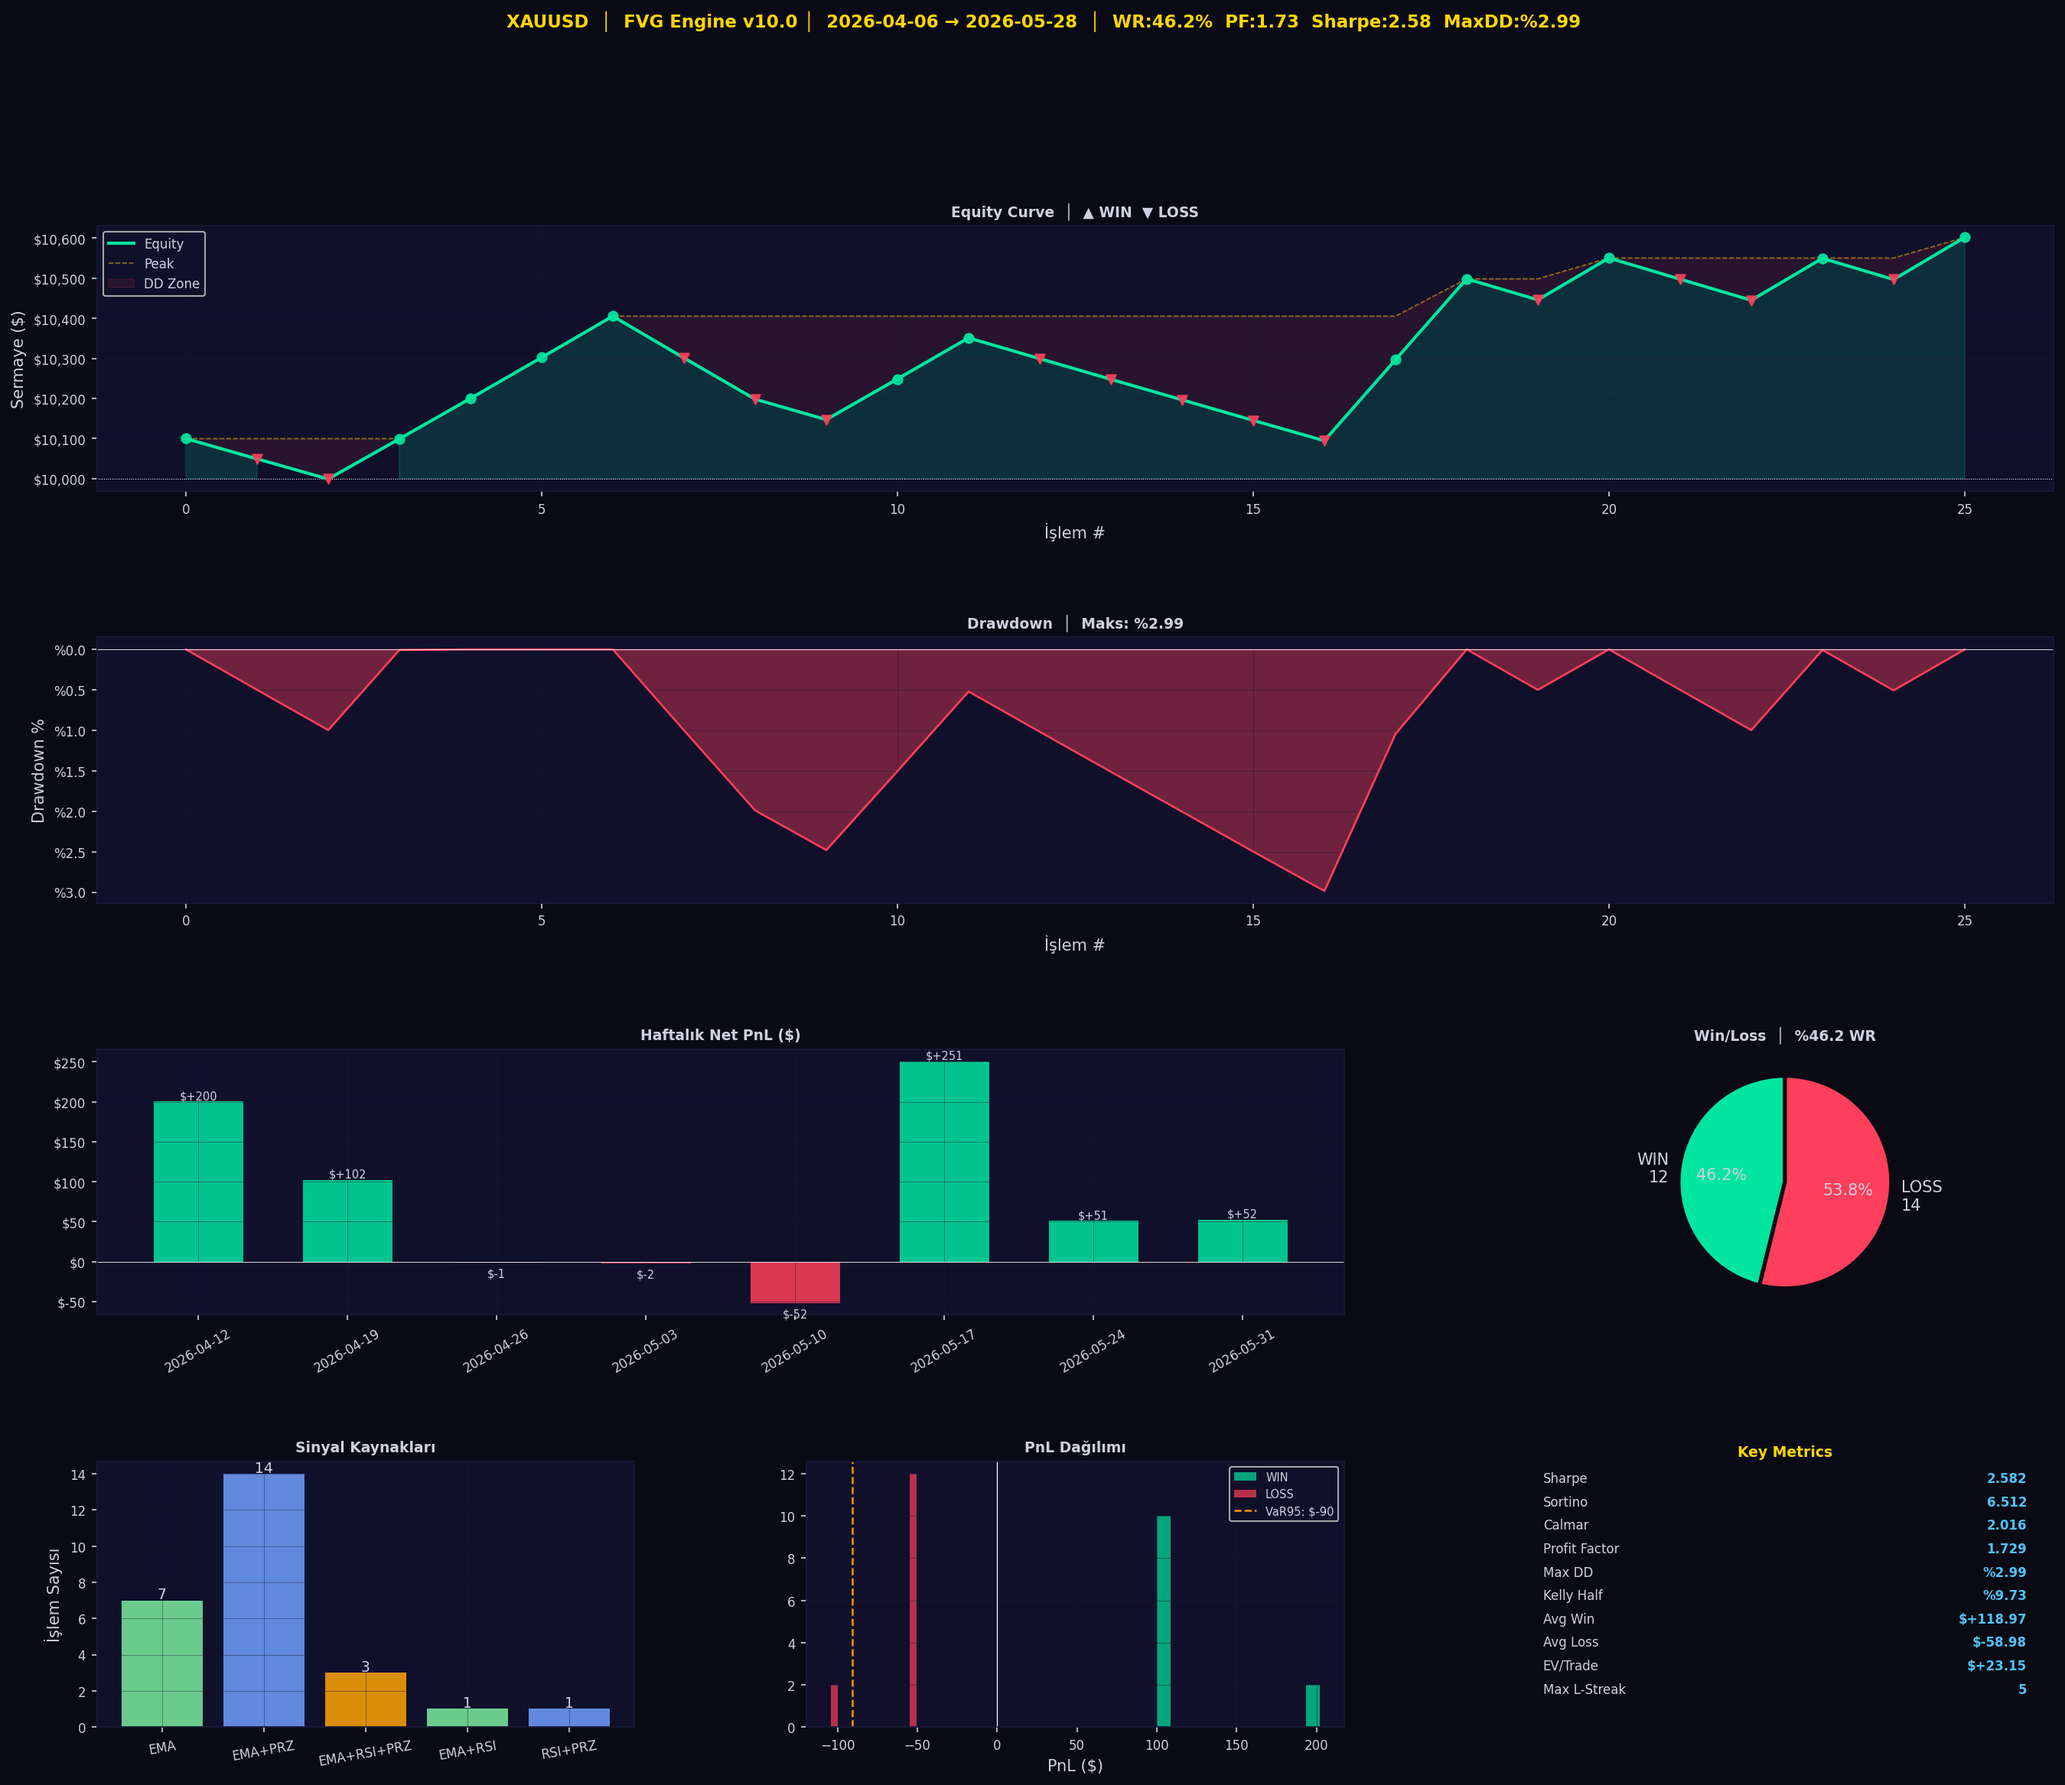
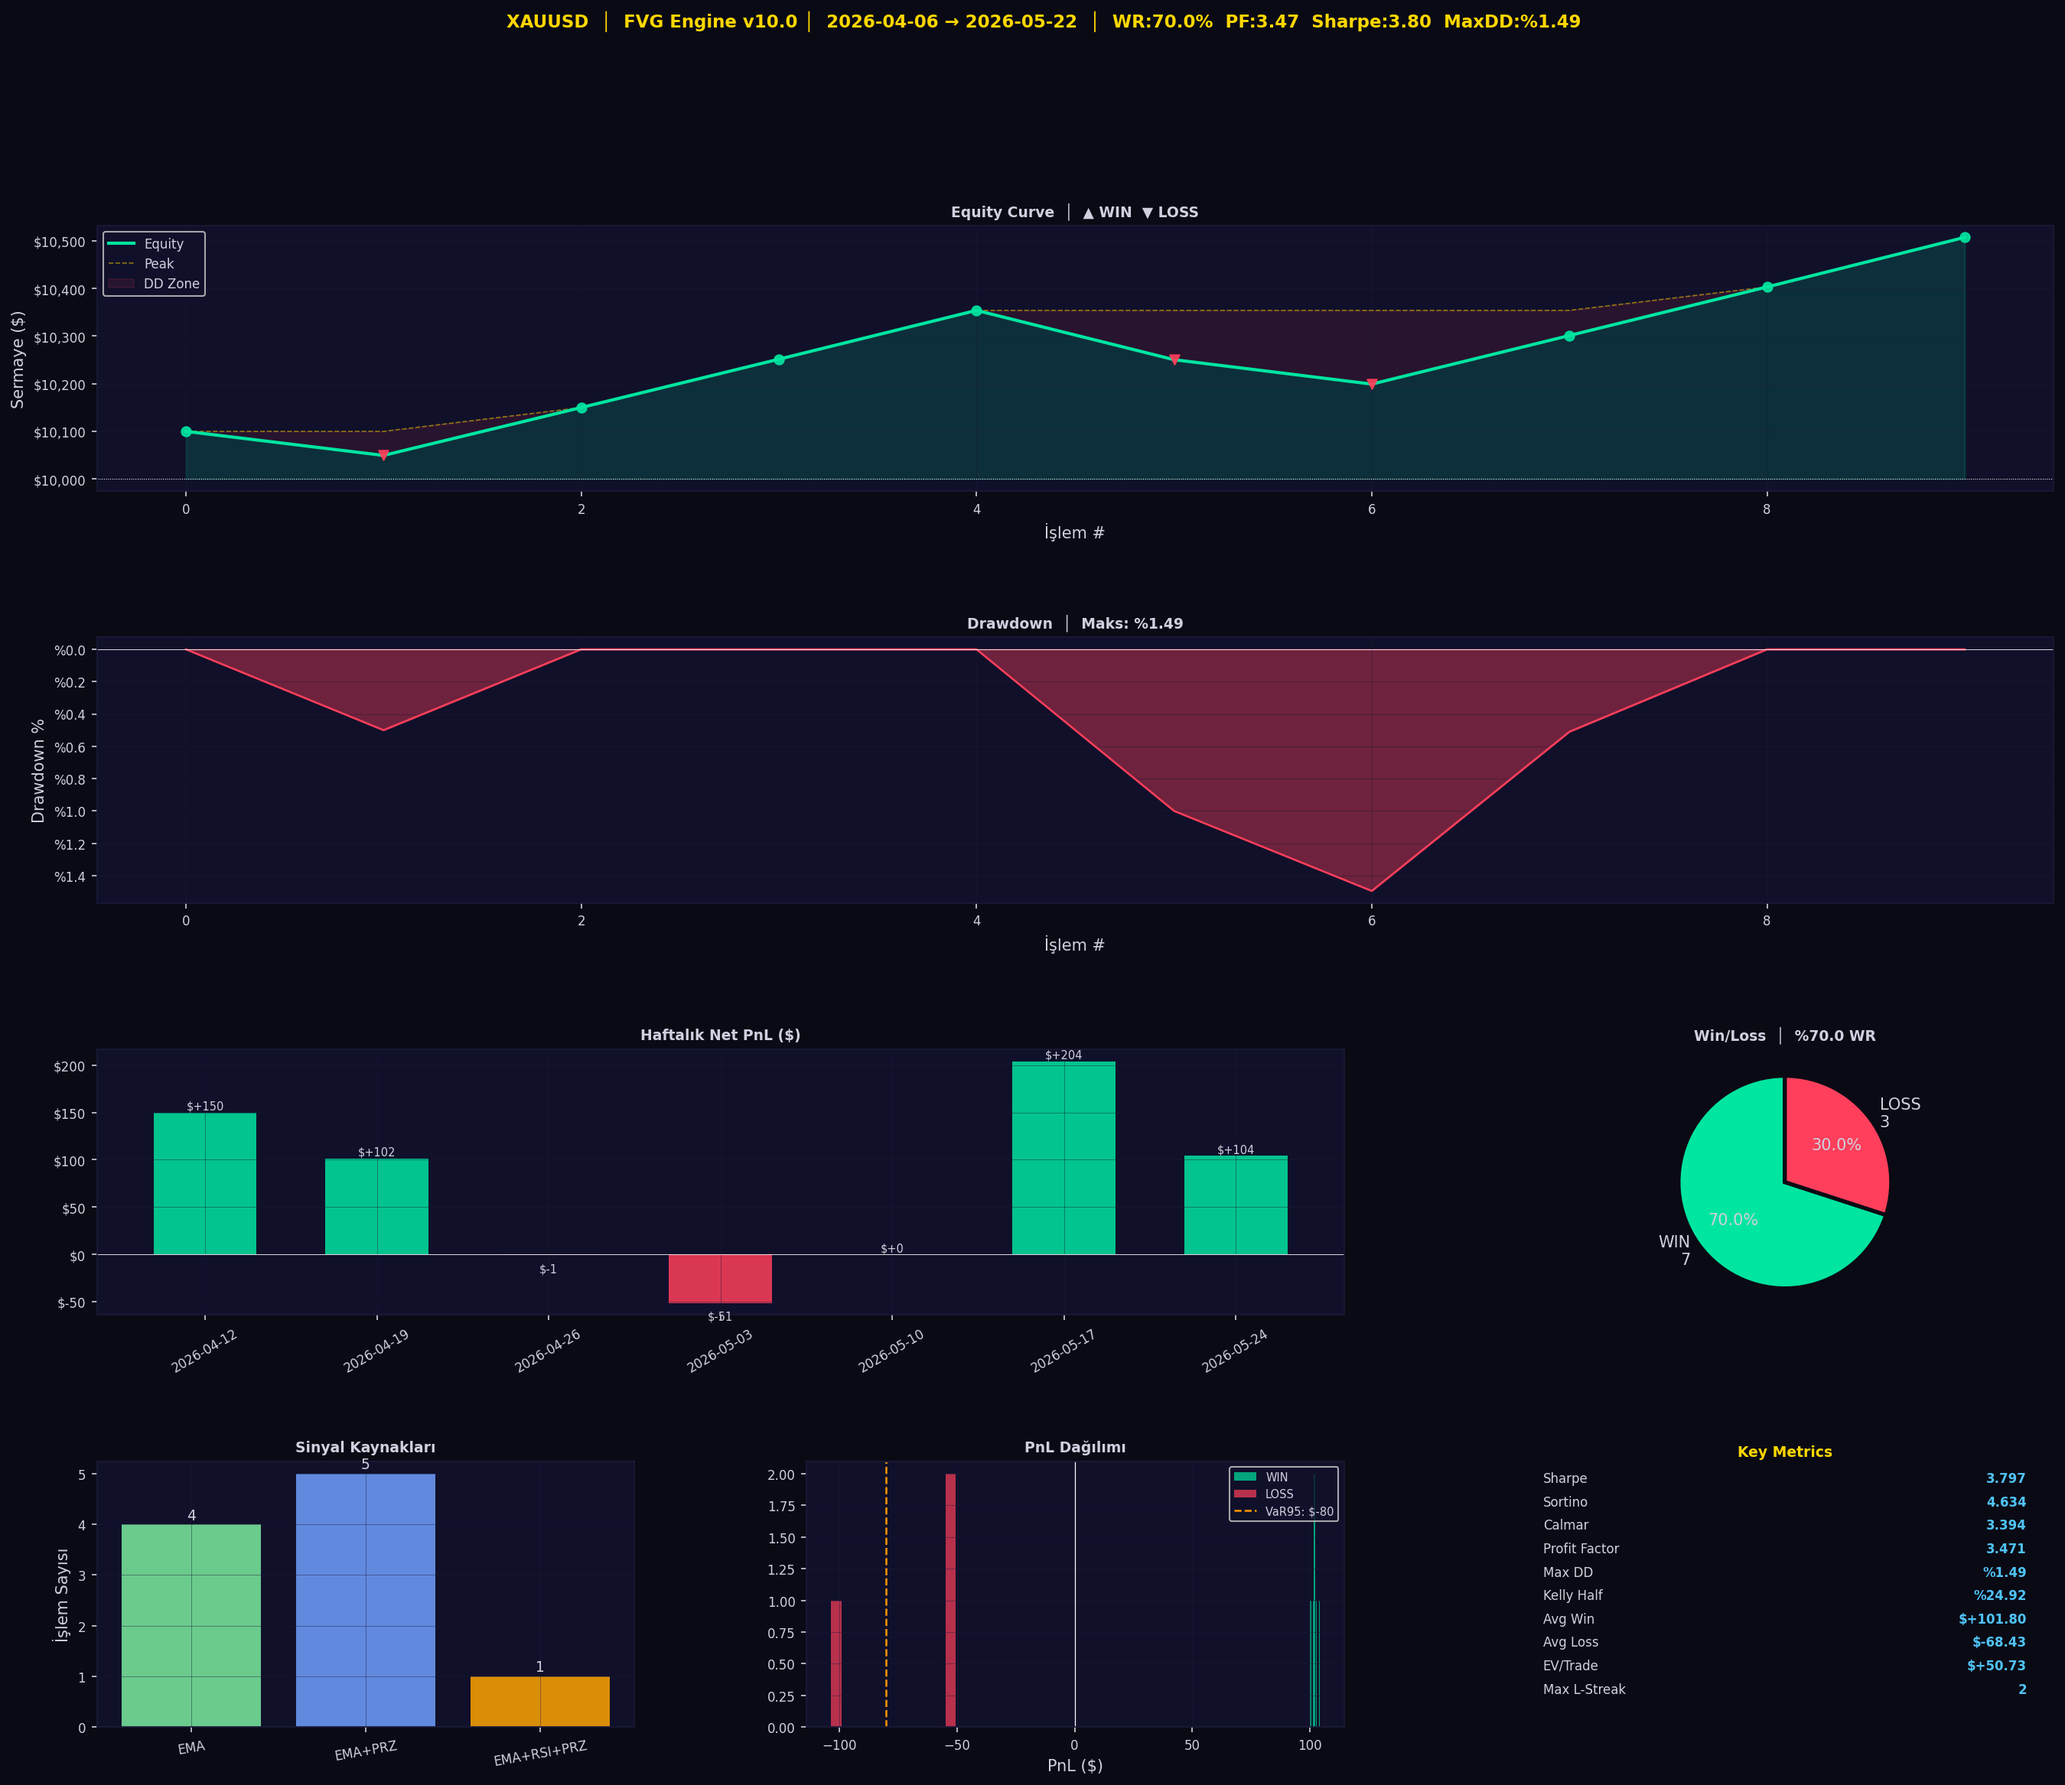
filter: breaker requires dual EMA+RSI confluence; disable HTF harmonics (15m/1h/4h)
Analysis of 98 trades (3 bias modes, 1:2 fix) revealed two destructive signal
sources: breaker MSB (38 trades, 16% WR, -$998) and HTF harmonic PRZ (29 trades,
17% WR, -$759). Applied two targeted filters:

1. Breaker block now requires BOTH EMA and RSI confluence (previously OR).
   This eliminates low-quality breaker entries; filter applied after event
   selection so touch-constraint is respected.

2. Harmonic PRZ detection limited to 5m only; 15m/1h/4h resampling removed.

Result (weekly bias, 1:2 fix): 10 trades, 70% WR, +$507, PF=3.47, Sharpe=3.80.
Full matrix best: daily 1:2 fix → 16 trades, 69% WR, +$825, MaxDD=1.5%.

https://claude.ai/code/session_01P9iUk1kdRV6S9xwppVeXcb

diff --git a/xauusd_fvg_engine_v10.py b/xauusd_fvg_engine_v10.py
@@ -1629,6 +1629,10 @@ class MarketBrain:
             if event is None:
                 continue                                       # MSB beklenmeye devam
 
+            # Breaker block daha yüksek kalite eşiği — EMA ve RSI ikisi birden şart.
+            if event.msb_type == 'breaker' and not (ema_ok and rsi_ok):
+                continue
+
             # ── Sinyal oluştur ───────────────────────────────────────────
             confluence_count = int(ema_ok) + int(rsi_ok)
             risk_fraction = 0.01 if confluence_count == 2 else 0.005
@@ -1786,22 +1790,17 @@ class BacktestEngine:
               f"mitigation:{_typ(msb_events,'mitigation')} "
               f"three_vol:{_typ(msb_events,'three_vol')})")
 
-        # Harmonik motor — 5M + 15M + 1H + 4H (resample 15M/4H)
+        # Harmonik motor — yalnız 5M (15M/1H/4H düşük WR nedeniyle kapatıldı)
         print("  Harmonik...", end=' ')
         harm_eng = HarmonicEngine(swing=5, min_conf=40.0, max_prz_pct=4.0)
         harmonics: List[HarmonicSignal] = []
         try:
             harmonics += harm_eng.detect(df5, '5m')
-            harmonics += harm_eng.detect(resample_ohlcv(df5, '15min'), '15m')
-            harmonics += harm_eng.detect(df1, '1h')
-            harmonics += harm_eng.detect(resample_ohlcv(df1, '4h'), '4h')
         except Exception as e:
             print(f"(harmonik hata: {e})", end=' ')
         harm_bull = [s for s in harmonics if s.direction == 'bull']
         harm_bear = [s for s in harmonics if s.direction == 'bear']
-        _htf = lambda tf: sum(1 for s in harmonics if s.timeframe == tf)
-        print(f"Bull:{len(harm_bull)}  Bear:{len(harm_bear)}  "
-              f"(5m:{_htf('5m')} 15m:{_htf('15m')} 1h:{_htf('1h')} 4h:{_htf('4h')})")
+        print(f"Bull:{len(harm_bull)}  Bear:{len(harm_bear)}  (5m:{len(harmonics)})")
 
         # Harmonik PRZ'leri POI olarak da kullan (senaryo-2: 1H FVG gibi,
         # MSB+EMA+RSI+bias ile). Her PRZ → pseudo-FVG; süre dolumu = expiry.
